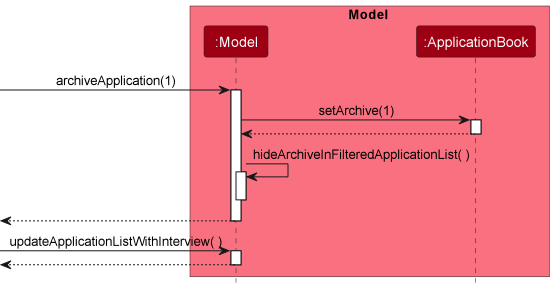
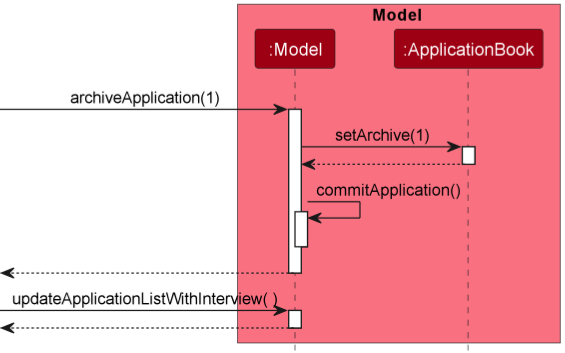
Improve code design

Changed region(s): [[0.0, 0.0, 1.0, 0.9965], [0.827, 0.7163, 0.8577, 0.7474]]

diff --git a/src/main/java/seedu/application/model/ModelManager.java b/src/main/java/seedu/application/model/ModelManager.java
@@ -50,11 +50,9 @@ public class ModelManager implements Model {
     }
 
 
-    private static FilteredList<Application> initialiseFilterList(VersionedApplicationBook versionedApplicationBook) {
-        HideArchiveFromListPredicate hideArchiveFromListPredicate =
-                new HideArchiveFromListPredicate();
+    private static FilteredList<Application> initialiseFilteredList(VersionedApplicationBook versionedApplicationBook) {
         FilteredList<Application> initialList = new FilteredList<>(versionedApplicationBook.getApplicationList());
-        initialList.setPredicate(hideArchiveFromListPredicate);
+        initialList.setPredicate(HIDE_ARCHIVE_IN_LIST);
         return initialList;
     }
 
@@ -63,7 +61,7 @@ public class ModelManager implements Model {
             versionedApplicationBook
                         .getApplicationList()
                         .stream()
-                        .filter(application -> application.getInterview().isPresent())
+                        .filter(application -> application.getInterview().isPresent() && !application.isArchived())
                         .collect(Collectors.toList()));
         applicationsWithInterview.sort(new InterviewComparator());
         return applicationsWithInterview;
@@ -150,21 +148,21 @@ public class ModelManager implements Model {
     @Override
     public void addApplication(Application application) {
         versionedApplicationBook.addApplication(application);
-        hideArchiveInFilteredApplicationList();
+        filteredApplications.setPredicate(HIDE_ARCHIVE_IN_LIST);
         commitApplicationBook();
     }
 
     @Override
     public void archiveApplication(Application target) {
         versionedApplicationBook.setArchive(target);
-        hideArchiveInFilteredApplicationList();
+        filteredApplications.setPredicate(HIDE_ARCHIVE_IN_LIST);
         commitApplicationBook();
     }
 
     @Override
     public void retrieveApplication(Application target) {
         versionedApplicationBook.retrieveApplication(target);
-        showArchiveInFilteredApplicationList();
+        filteredApplications.setPredicate(SHOW_ARCHIVE_ONLY);
         commitApplicationBook();
     }
 
@@ -223,18 +221,6 @@ public class ModelManager implements Model {
     @Override
     public void redoApplicationBook() {
         versionedApplicationBook.redo();
-    }
-
-    @Override
-    public void hideArchiveInFilteredApplicationList() {
-        Predicate<Application> predicate = new HideArchiveFromListPredicate();
-        filteredApplications.setPredicate(predicate);
-    }
-
-    @Override
-    public void showArchiveInFilteredApplicationList() {
-        Predicate<Application> predicate = new ShowArchiveOnlyPredicate();
-        filteredApplications.setPredicate(predicate);
     }
 
     /**

diff --git a/src/test/java/seedu/application/model/ModelManagerTest.java b/src/test/java/seedu/application/model/ModelManagerTest.java
@@ -3,6 +3,7 @@ package seedu.application.model;
 import static org.junit.jupiter.api.Assertions.assertEquals;
 import static org.junit.jupiter.api.Assertions.assertFalse;
 import static org.junit.jupiter.api.Assertions.assertTrue;
+import static seedu.application.model.Model.HIDE_ARCHIVE_IN_LIST;
 import static seedu.application.testutil.Assert.assertThrows;
 import static seedu.application.testutil.TypicalApplications.FACEBOOK;
 import static seedu.application.testutil.TypicalApplications.SHOPEE;
@@ -201,7 +202,7 @@ public class ModelManagerTest {
         assertFalse(modelManager.equals(new ModelManager(applicationBook, userPrefs)));
 
         // resets modelManager to initial state for upcoming tests
-        modelManager.updateFilteredApplicationList(new HideArchiveFromListPredicate());
+        modelManager.updateFilteredApplicationList(HIDE_ARCHIVE_IN_LIST);
 
         // different filteredList (filtered by position) -> returns false
         String keyword = SHOPEE.getPosition().value.split("\\s+")[0]; //"Frontend"
@@ -211,7 +212,7 @@ public class ModelManagerTest {
         assertFalse(modelManager.equals(new ModelManager(applicationBook, userPrefs)));
 
         // resets modelManager to initial state for upcoming tests
-        modelManager.updateFilteredApplicationList(new HideArchiveFromListPredicate());
+        modelManager.updateFilteredApplicationList(HIDE_ARCHIVE_IN_LIST);
 
         // different userPrefs -> returns false
         UserPrefs differentUserPrefs = new UserPrefs();

diff --git a/src/main/java/seedu/application/model/Model.java b/src/main/java/seedu/application/model/Model.java
@@ -12,7 +12,8 @@ import seedu.application.model.application.interview.Interview;
  * The API of the Model component.
  */
 public interface Model {
-
+    Predicate<Application> HIDE_ARCHIVE_IN_LIST = app -> !app.isArchived();
+    Predicate<Application> SHOW_ARCHIVE_ONLY = app -> app.isArchived();
     /**
      * Replaces user prefs data with the data in {@code userPrefs}.
      */
@@ -117,16 +118,6 @@ public interface Model {
      * @throws NullPointerException if {@code predicate} is null.
      */
     void updateFilteredApplicationList(Predicate<Application> predicate);
-
-    /**
-     * Updates the filter of the filtered application list to filter by {@code HideArchiveFromListPredicate}.
-     */
-    void hideArchiveInFilteredApplicationList();
-
-    /**
-     * Updates the filter of the filtered application list to filter by {@code ShowArchiveOnlyPredicate}.
-     */
-    void showArchiveInFilteredApplicationList();
 
     /**
      * Updates the application list with interview when a new interview is added.

diff --git a/src/main/java/seedu/application/logic/commands/ListArchiveCommand.java b/src/main/java/seedu/application/logic/commands/ListArchiveCommand.java
@@ -3,7 +3,6 @@ package seedu.application.logic.commands;
 import static java.util.Objects.requireNonNull;
 
 import seedu.application.model.Model;
-import seedu.application.model.ShowArchiveOnlyPredicate;
 
 /**
  * Lists all the archived applications in CinternS to the user.
@@ -17,9 +16,7 @@ public class ListArchiveCommand extends Command {
     @Override
     public CommandResult execute(Model model) {
         requireNonNull(model);
-        ShowArchiveOnlyPredicate showArchiveOnlyPredicate =
-                new ShowArchiveOnlyPredicate();
-        model.updateFilteredApplicationList(showArchiveOnlyPredicate);
+        model.updateFilteredApplicationList(model.SHOW_ARCHIVE_ONLY);
         model.updateApplicationListWithInterview();
         return new CommandResult(MESSAGE_SUCCESS);
     }

diff --git a/src/main/java/seedu/application/logic/commands/ListCommand.java b/src/main/java/seedu/application/logic/commands/ListCommand.java
@@ -2,7 +2,6 @@ package seedu.application.logic.commands;
 
 import static java.util.Objects.requireNonNull;
 
-import seedu.application.model.HideArchiveFromListPredicate;
 import seedu.application.model.Model;
 
 /**
@@ -18,9 +17,7 @@ public class ListCommand extends Command {
     @Override
     public CommandResult execute(Model model) {
         requireNonNull(model);
-        HideArchiveFromListPredicate hideArchiveFromListPredicate =
-                new HideArchiveFromListPredicate();
-        model.updateFilteredApplicationList(hideArchiveFromListPredicate);
+        model.updateFilteredApplicationList(model.HIDE_ARCHIVE_IN_LIST);
         model.updateApplicationListWithInterview();
         return new CommandResult(MESSAGE_SUCCESS);
     }

diff --git a/src/main/java/seedu/application/model/application/UniqueApplicationList.java b/src/main/java/seedu/application/model/application/UniqueApplicationList.java
@@ -122,7 +122,7 @@ public class UniqueApplicationList implements Iterable<Application> {
             throw new ApplicationNotFoundException();
         }
         //boolean to bypass duplicate interview checking
-        boolean haveSameArchiveStatus = (target.isArchived() && editedApplication.isArchived())
+        boolean hasSameArchiveStatus = (target.isArchived() && editedApplication.isArchived())
                 || (!target.isArchived() && !editedApplication.isArchived());
         if (!target.isSameApplication(editedApplication) && contains(editedApplication)) {
             // check if applications other than target are equivalent to editedApplication

diff --git a/src/test/java/seedu/application/logic/commands/AddCommandTest.java b/src/test/java/seedu/application/logic/commands/AddCommandTest.java
@@ -182,17 +182,7 @@ public class AddCommandTest {
         }
 
         @Override
-        public void hideArchiveInFilteredApplicationList() {
-            throw new AssertionError("This method should not be called.");
-        }
-
-        @Override
         public void commitApplicationBook() {
-            throw new AssertionError("This method should not be called.");
-        }
-
-        @Override
-        public void showArchiveInFilteredApplicationList() {
             throw new AssertionError("This method should not be called.");
         }
 

diff --git a/src/main/java/seedu/application/logic/commands/DeleteCommand.java b/src/main/java/seedu/application/logic/commands/DeleteCommand.java
@@ -11,7 +11,7 @@ import seedu.application.model.Model;
 import seedu.application.model.application.Application;
 
 /**
- * Deletes a application identified using its displayed index on the CinternS interface.
+ * Deletes an application identified using its displayed index on the CinternS interface.
  */
 public class DeleteCommand extends Command {
 

diff --git a/docs/DeveloperGuide.md b/docs/DeveloperGuide.md
@@ -237,11 +237,11 @@ The following activity diagram summarizes what happens when a user executes a ne
 
 The purpose of this enhancement is to allow user to archive applications that are not applicable in the current time (applications that are rejected/offered/no-response )
 * Data archiving of `Application` is done with adding a boolean attribute to the Application class as the record of its archive status.
-* `HideArchiveFromListPredicate` and `ShowArchiveOnlyPredicate` classes are added to utilise in Model to adjust its FilterList shown to the user.
+* Two predicates in Model to adjust its FilterList shown to the user.
 * By applying predicates to the `FilterList` in `ModelManager`, the archived `Application` can be hidden from the user.
 * The list showing to user in the UI is either showing the unarchived applications or the archived application using `ListCommand` and `ListArchiveCommand` respectively.
 
-The feature of the new and modified command are summarized as follows:
+The features of the new and modified commands are summarized as follows:
 * `ArchiveCommand`: Set specified application archive status to `true` by utilising `ModelManager#archiveApplication`.
 * `RetriveCommand`: Set specified application archive status to `false` by utilising `ModelManager#retrieveApplication`.
 * `ListArchiveCommand`: Show user the archived applications in CinternS.
@@ -250,7 +250,7 @@ The feature of the new and modified command are summarized as follows:
 The following sequence diagram shows how the ModelManager works when archive command is executed to update the list shown in UI:
 ![ModelManagerUsingArchiveSequenceDiagram](images/ModelManagerUsingArchiveSequenceDiagram.png)
 
-`Model#hideArchiveInFilteredApplicationList` will apply the `HideArchiveFromListPredicate` to the FilterList in Model and the archived application will be hidden from the list shown in UI.
+After`ApplicationBook#setArchive` is called the `Model#archiveApplication` will apply the predicate that hides the archive application to the FilterList in Model and the archived application will be hidden from the updated list shown in UI.
 
 #### Constraints of Data archiving:
 Archived applications cannot be archived again. Doing so will cause `CommandException` to be thrown. The same reasoning applies to retrieve command.
@@ -260,17 +260,17 @@ Archived applications cannot be archived again. Doing so will cause `CommandExce
 Aspect: How should data archiving be implemented?
 
 - Alternative 1 (current choice): Add a boolean attribute to Application class.
-    - Pros: Concise implementation as only predicates and a few new commands are added to make it works.
+    - Pros: Concise implementation as only predicates and a few new commands are added to make it work.
     - Cons: Current tests need to be modified.
 - Alternative 2: Adding archived application to a list similar to UniqueApplicationList as record.
-    - Pros: Lesser effort to maintain the previous test case as this implementation makes only minor modification on previous classes.
+    - Pros: Less effort to maintain the previous test case as this implementation makes only minor modification on previous classes.
     - Cons: Too much duplication and maintenance of actual code (Another copy of UniqueList need to be created and maintained).
 
 Aspect: Should user allowed to edit archived application directly?
 
 - Alternative 1 (current choice): User are allowed to edit archived application
     - Pros: A more convenient usage for user.
-    - Cons: Lesser "hidden" nature of archiving data.
+    - Cons: Less "hidden" nature of archiving data.
 - Alternative 2: User are not allow to edit archived application
     - Pros: Usage of archive is more intuitive as archive applications are only used for future references.
     - Cons: Inconvenient usage as user need to retrieve archived application before editing it.
